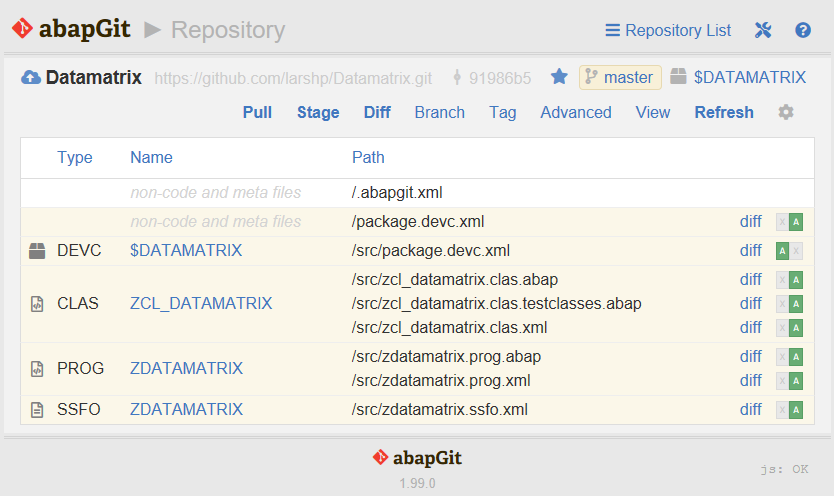
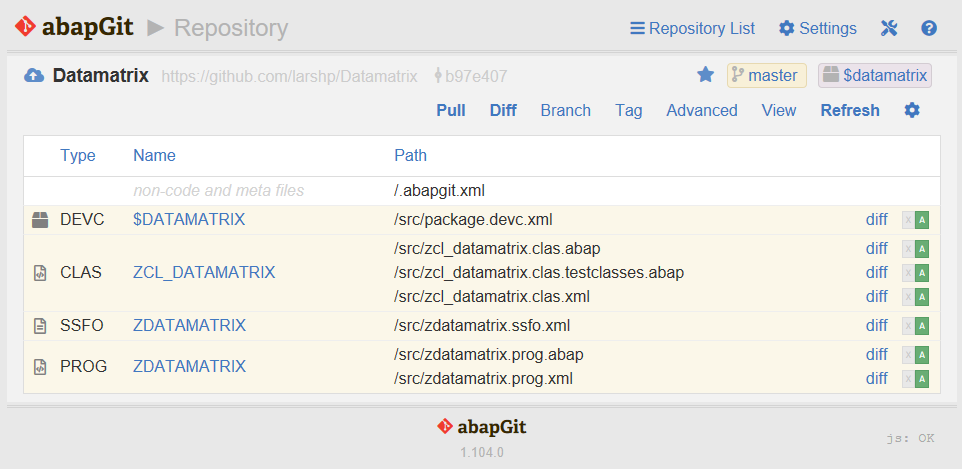
NSPC: Update docs (#4454)
* NSPC: Update docs

* Image

* Auto-create package

* Update screenshot

* Auto-create package

* Create ref-packages.md

* Update ref-namespaces.md

* Update ref-packages.md

diff --git a/docs/ref-packages.md b/docs/ref-packages.md
@@ -1,0 +1,42 @@
+---
+title: Packages & Transports
+category: reference
+order: 75
+---
+
+## Packages
+
+abapGit repositories do *not* store any SAP package names. The top (or root) SAP package for a repository is defined when creating a repository in your system 
+("[New Online](guide-online-install.html)" or "[New Offline](guide-offline-install.html)"). You have two options to provide the SAP package:
+
+1. Let abapGit create the package automatically
+2. Create the package manually 
+
+If the repository contains sub packages, abapGit will create them automatically with the same settings as the top SAP package (see also [Folder Logic](ref-dot-abapgit.html#folder-logic)).
+
+### Automatic Creation of Package
+
+Just enter the name of the SAP package in the "New Online" or "New Offline" dialogs. The package does not have to exist. Then select "Clone Online Repo" or "Create Offline Repo".
+
+### Manually Creation of Package
+
+You can use an existing SAP package, create the package beforehand in transaction SE80, or create the package in the "New Online" or "New Offline" dialogs.
+
+## Transports
+
+Based on the type of SAP package you use, abapGit will determine what type of transport will be required. When pulling or uninstalling the repo, abapGit will then prompt
+for a corresponding transport request.
+
+The following table lays out if abapGit can automatically create the package and how it determines the type of transport.
+
+Change & Transport System<br>Configuration | Local $-Package<br>$PACK | Local Z-Package<br>ZPACK | Transportable Z-Package<br>ZPACK | Namespace-Package<br>/NAMESPC/PACK
+--------------------------|-----------------|-----------------|-------------------------|-------------------
+Not configured            | <span style="color:green">(1)</span> | <span style="color:green">(2)</span> | n/a | n/a
+One transport layer       | <span style="color:green">(1)</span>  | <span style="color:blue">(3)</span> | <span style="color:green">(4)</span> | <span style="color:green">(4)</span>     
+Multiple transport layers | <span style="color:green">(1)</span>  | <span style="color:blue">(3)</span> | (5) | (5)
+
+<span style="color:green">(1) Automatically create package, no transport</span><br> 
+<span style="color:green">(2) Automatically create package, local workbench request</span><br>
+<span style="color:blue">(3) Manually create package (without transport layer), local workbench request</span><br>
+<span style="color:green">(4) Automatically create package, transportable workbench request</span><br>
+<span style="color:green">(5) Automatically create package for default transport layer, transportable workbench request.</span> <span style="color:blue">Manually create package, if you want to use a different layer than the default.</span>

diff --git a/docs/ref-namespaces.md b/docs/ref-namespaces.md
@@ -4,19 +4,19 @@ category: reference
 order: 70
 ---
 
-Objects with namespaces are serialized, `/FOOBAR/REPORT` to `#foobar#report.prog.abap`
+abapGit supports namespaces. Objects with namespaces can be serialized and deserialized, for example `/FOOBAR/REPORT` to `#foobar#report.prog.abap`. The namespace itself is serialized as well, for example `/FOOBAR` to `#foobar#.nspc.xml`. This XML-file contains the repair license key for the namespace (but *not* the developer license key).
 
-Using abapGit to install to customer systems:
+Currently, abapGit will automatically serialize namespaces and update existing namespaces when pulling from the repo. abapGit is not yet able to create the namespace automatically, if it does not exist in the local system. You have to create the namespace manually, first. 
 
-A: Create namespace in SE03, namespace role = C, and add the repair license
+Example:
 
-B: Open namespace for modifications in SE03
+![](img/namespace_example.png)
 
-C: Create namespaced package
+You can create the namespace as follows:
 
-D: Change package original system to current in SE03 -> Change Object Directory Entries
-
-E: Clone/pull like normal
-
+1. Create namespace in transaction SE03, namespace role = C, and add the repair license
+1. Open namespace for modifications in SE03
+1. Create namespaced package (optional)
+1. Clone/pull like normal
 
 Objects will appear as repaired in the customer system, compare with git source to determine if the objects are modified.

diff --git a/docs/guide-online-install.md b/docs/guide-online-install.md
@@ -12,7 +12,7 @@ order: 10
 
 ![](img/clone1.png)
 
-* Enter the url for the Github project, eg https://github.com/larshp/Datamatrix.git along with a package name, eg. $DATAMATRIX. If the package does not exist yet, you can select "Create Package" to create it.
+* Enter the url for the Github project, eg https://github.com/larshp/Datamatrix along with a package name, eg. $DATAMATRIX. If the package does not exist yet, it will be created automatically when pulling. Alternatively, you can select "Create Package" to create the package manually with your own settings.
 
 ![](img/clone2.png)
 

diff --git a/docs/guide-offline-install.md b/docs/guide-offline-install.md
@@ -12,7 +12,7 @@ order: 05
 
 ![](img/offline1.png)
 
-* Enter the name for your project, eg "Datamatrix" along with a package name, eg. $DATAMATRIX. If the package does not exist yet, you can select "Create Package" to create it.
+* Enter the name for your project, eg "Datamatrix" along with a package name, eg. $DATAMATRIX. If the package does not exist yet, it will be created automatically when pulling. Alternatively, you can select "Create Package" to create the package manually with your own settings.
 
 ![](img/offline2.png)
 
